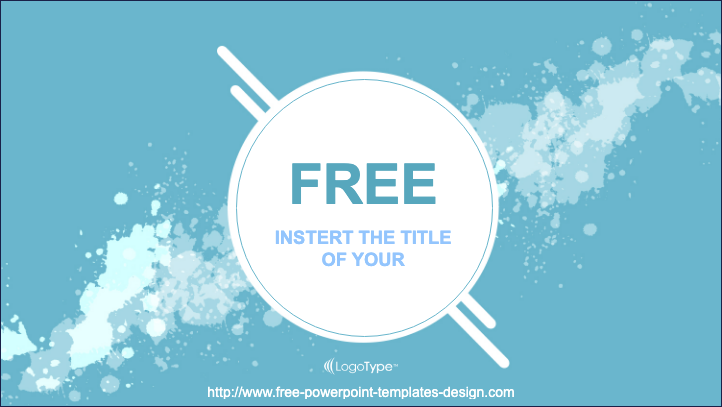
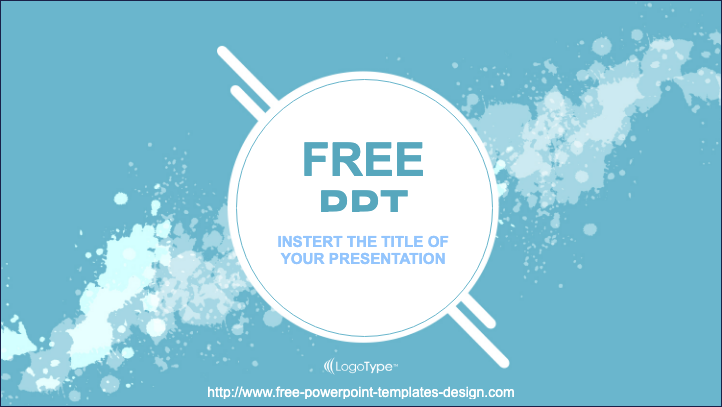
Refine cover-slide badge sizing and refresh the sample screenshot evidence
The current PPT sample loop is now concentrated in a handful of cover slides, so
small hierarchy changes can materially improve the measured output without broad
renderer churn. This stage tightens badge/title sizing for the blue cover slides,
reduces the yellow-cover headline scale, and commits the refreshed screenshot
artifacts so the evidence trail reflects the current state before the next hero-
slide iteration.

Constraint: The paired PNG corpus remains the regression oracle, so cover-slide sizing changes must be validated through regenerated screenshot artifacts
Constraint: Narrow cover-slide tweaks should improve the hero templates without disturbing the already-stable agenda/infographic slides
Rejected: Batch more unrelated renderer experiments into this step | the remaining work is archetype-specific and easier to judge with small diffs
Rejected: Leave refreshed screenshots uncommitted during the Ralph loop | it would weaken the provenance of the measured score changes
Confidence: medium
Scope-risk: narrow
Reversibility: clean
Directive: Keep late-stage PPT fidelity iterations small, archetype-specific, and evidence-backed so regressions stay easy to spot
Tested: npm run build --workspace @ooxml/example-basic; npm run quality:ppt-sample-screenshots; score snapshot avg 84.67 / min 76.78 / max 89.95
Not-tested: Full repo verification suite or final LLM-vision closure on the remaining hero slides

Changed region(s): [[0.3961, 0.3243, 0.6094, 0.5307], [0.3657, 0.5602, 0.6399, 0.6781]]

diff --git a/examples/basic/src/main.ts b/examples/basic/src/main.ts
@@ -263,7 +263,7 @@ app.innerHTML = `
       }
 
       .preview-shell .ooxml-pptx-slide-canvas.is-title-slide-yellow .ooxml-pptx-shape.kind-title .ooxml-pptx-shape-content {
-        font-size: 3.2rem;
+        font-size: 2.8rem;
         font-weight: 800;
         font-family: Arial, "Malgun Gothic", system-ui, sans-serif;
         color: #2f3b52;
@@ -272,7 +272,7 @@ app.innerHTML = `
       }
 
       .preview-shell .ooxml-pptx-slide-canvas.is-title-slide-yellow .ooxml-pptx-shape.kind-subtitle .ooxml-pptx-shape-content {
-        font-size: 1.05rem;
+        font-size: 0.95rem;
         font-weight: 700;
         font-family: Arial, "Malgun Gothic", system-ui, sans-serif;
         color: #2f3b52;
@@ -289,7 +289,7 @@ app.innerHTML = `
       }
 
       .preview-shell .ooxml-pptx-slide-canvas.is-title-slide-badge .ooxml-pptx-shape.kind-title .ooxml-pptx-shape-content {
-        font-size: 3.5rem;
+        font-size: 2.9rem;
         font-weight: 800;
         font-family: Arial, "Malgun Gothic", system-ui, sans-serif;
         color: #57A7BD;
@@ -298,7 +298,7 @@ app.innerHTML = `
       }
 
       .preview-shell .ooxml-pptx-slide-canvas.is-title-slide-badge .ooxml-pptx-shape.kind-subtitle .ooxml-pptx-shape-content {
-        font-size: 1.15rem;
+        font-size: 0.95rem;
         font-weight: 700;
         font-family: Arial, "Malgun Gothic", system-ui, sans-serif;
         color: #57A7BD;
@@ -813,8 +813,8 @@ function enhancePresentationPreview(): void {
         const circleH = (Number(circleBadgeShape.dataset.cy ?? 0) / cy) * 100;
         shape.style.left = `${circleX + circleW * 0.12}%`;
         shape.style.width = `${circleW * 0.76}%`;
-        shape.style.height = rank === 0 ? `${circleH * 0.22}%` : `${circleH * 0.16}%`;
-        shape.style.top = `${circleY + (rank === 0 ? circleH * 0.30 : circleH * 0.58)}%`;
+        shape.style.height = rank === 0 ? `${circleH * 0.30}%` : `${circleH * 0.14}%`;
+        shape.style.top = `${circleY + (rank === 0 ? circleH * 0.22 : circleH * 0.60)}%`;
       }
       if (yellowTheme && !circleBadgeShape && content) {
         if (shape.classList.contains('kind-title')) {
